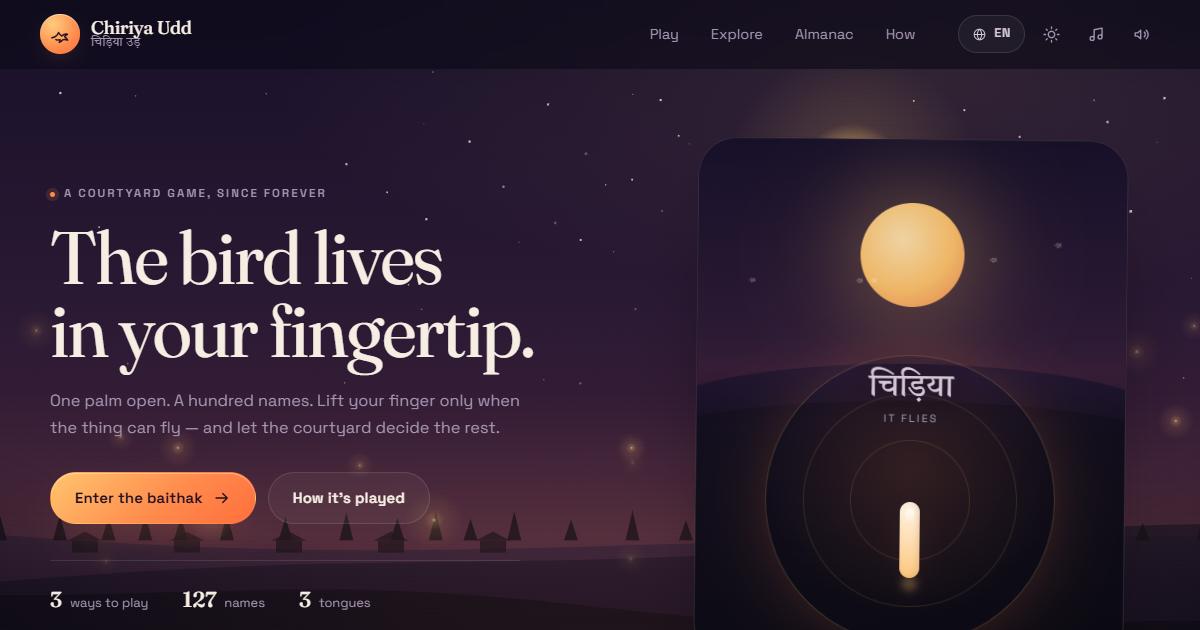
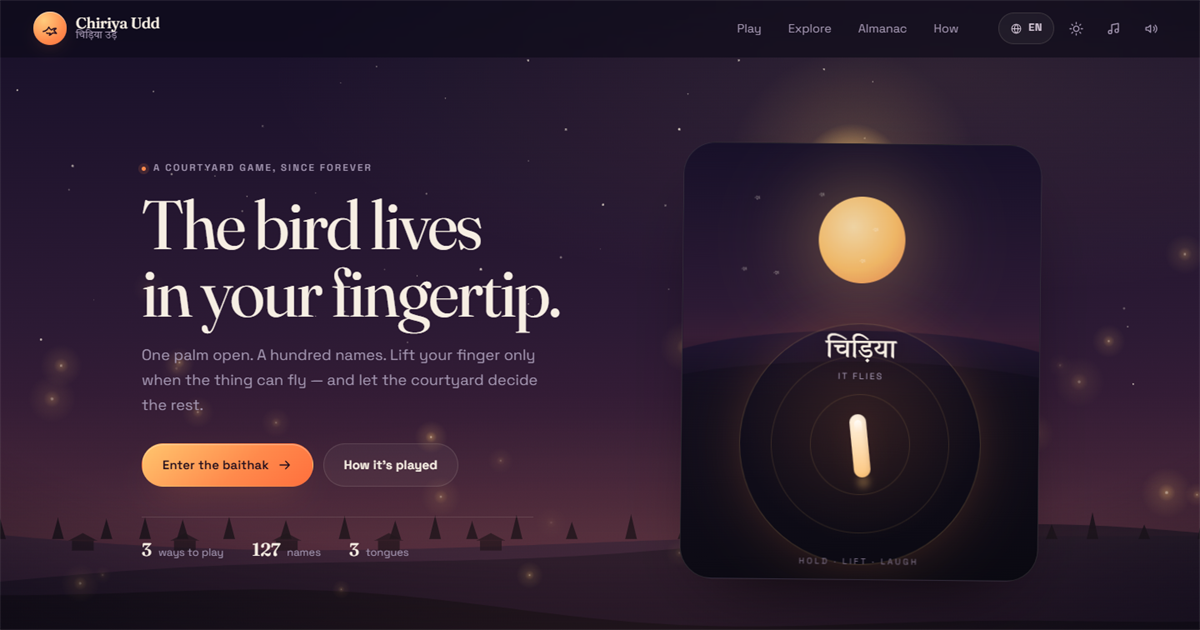
Polish hero finger, verdict stamp, and launch assets
Hold the hero finger aloft for the full flying-word cycle, soften the hero sky seam, enrich the play backdrop, clarify miss copy, hide the feather HUD outside Baithak, and add app icons plus a social card.

diff --git a/css/style.css b/css/style.css
@@ -365,14 +365,14 @@ html[data-lang="hi"] .hero-copy h1{font-size:clamp(2.4rem,5.6vw,4.5rem);line-hei
 }
 @keyframes fingerLift{
   0%{transform:translate(-50%,0) rotate(0deg)}
-  22%,58%{transform:translate(-50%,-38px) rotate(-6deg)}
-  78%,100%{transform:translate(-50%,0) rotate(0deg)}
+  10%,72%{transform:translate(-50%,-38px) rotate(-6deg)}
+  90%,100%{transform:translate(-50%,0) rotate(0deg)}
 }
 @keyframes fingerPress{
   0%,100%{transform:translate(-50%,0) scaleY(1)}
   38%{transform:translate(-50%,6px) scaleY(.86)}
 }
-.art-finger.is-lift{animation:fingerLift 2.9s var(--ease) both}
+.art-finger.is-lift{animation:fingerLift 4.8s var(--ease) both}
 .art-finger.is-press{animation:fingerPress 1.7s var(--ease) both}
 .art-word.is-fly{color:var(--ink)}
 .art-word.is-stay{color:var(--ink-2)}
